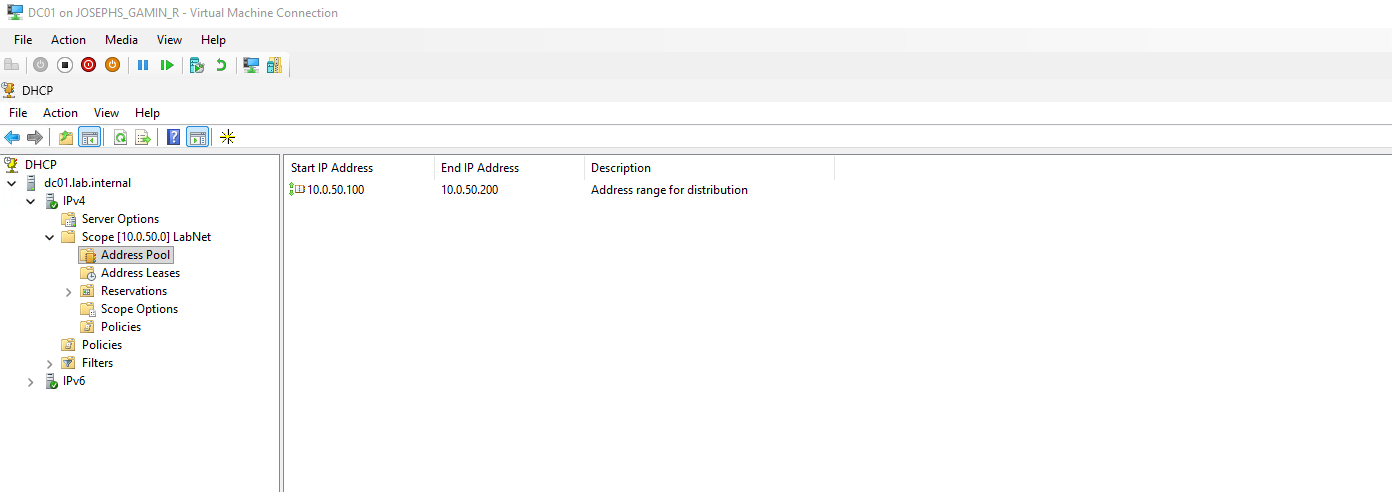
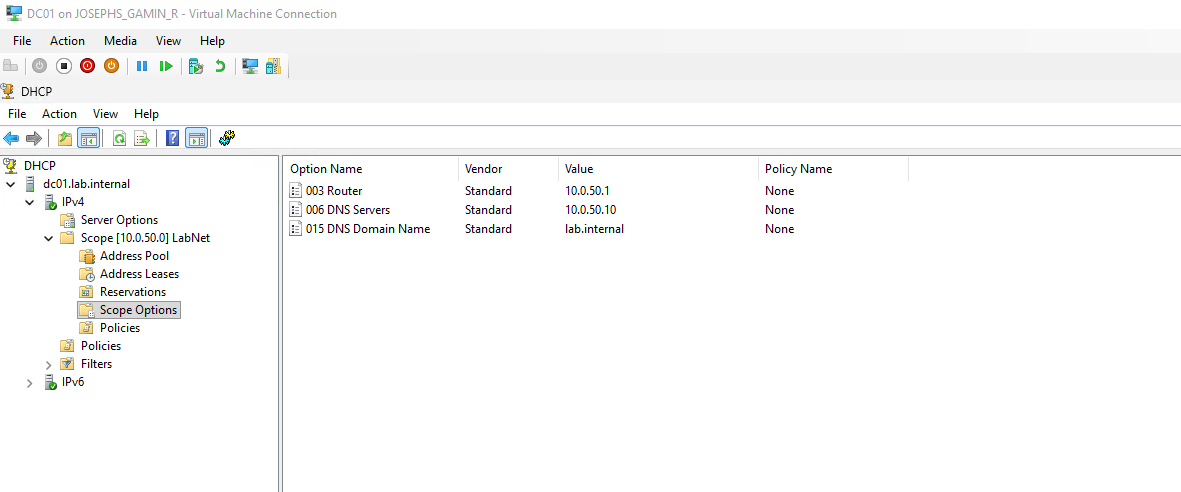
Fix swapped DHCP screenshots and caption both
02-dhcp-scope-options.png showed the Address Pool view and the -2 file
showed Scope Options. Rename them to match their content and add a
caption for the address pool.

Claude-Session: https://claude.ai/code/session_01SCA36wf4ai9s26FX23aKYs

Changed region(s): [[0.0, 0.0, 1.0, 0.7927]]

diff --git a/README.md b/README.md
@@ -72,6 +72,10 @@ No passwords are stored in any script. The DSRM password is prompted for at runt
 
 ![DNS SRV record](screenshots/01-dns-srv-record.png)
 
+**DHCP address pool.** The LabNet scope hands out 10.0.50.100-10.0.50.200. The green check on IPv4 shows the server is authorized in Active Directory.
+
+![DHCP address pool](screenshots/02-dhcp-address-pool.png)
+
 **DHCP scope options.** Clients get router 10.0.50.1, DNS server 10.0.50.10 and domain `lab.internal`, so every domain machine uses the DC for DNS automatically.
 
 ![DHCP scope options](screenshots/02-dhcp-scope-options.png)
